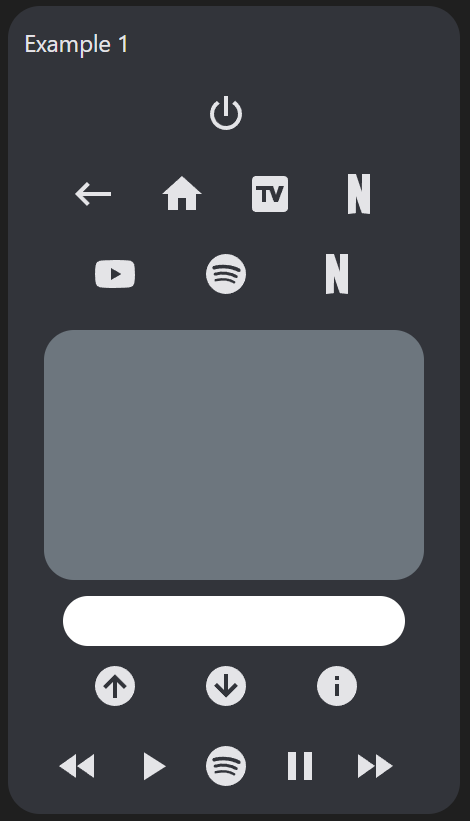
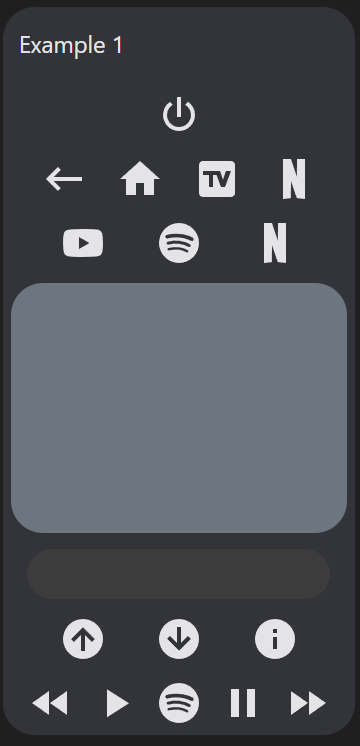
README updates, remade all old screenshots

diff --git a/README.md b/README.md
@@ -82,6 +82,30 @@ Many thanks to the original authors. Getting this to work with Android TV was st
 
 ## Demo
 
+```yaml
+type: custom:android-tv-card
+remote_id: remote.google_chromecast
+media_player_id: media_player.google_chromecast
+adb_id: media_player.google_chromecast_adb
+title: Example
+rows:
+  - - back
+    - power
+    - home
+  - - keyboard
+    - search
+    - volume_slider
+  - - - netflix
+      - null
+      - youtube
+      - null
+      - spotify
+    - navigation_touchpad
+  - - previous
+    - play_pause
+    - next
+```
+
 <img src="assets/screenshot.png" alt="ex" width="300"/>
 
 ## Options
@@ -94,14 +118,14 @@ All fields are technically optional except for `type`, but the card will not fun
 | remote_id              | string   | The `remote` entity id to control, required for default commands.                                                                                                                                                                                            |
 | media_player_id        | string   | The `media_player` entity id to use for the optional volume slider (not required for volume buttons).                                                                                                                                                        |
 | adb_id                 | string   | The adb `media_player` entity id to use to send keyboard events. Requires the [Android Debug Bridge integration](https://www.home-assistant.io/integrations/androidtv/).                                                                                     |
-| title                  | string   | Card title for showing as header.                                                                                                                                                                                                                            |
-| rows                   | string[] | Defines the buttons used in the card. Each row within rows defines a row of buttons (or slider and touchpad).                                                                                                                                                |
-| enable_double_click    | boolean  | Whether a double click on the touchpad should send the key in `double_click_keycode`. Defaults to `false`. Enabling this introduces a 200ms delay to single clicks.                                                                                          |
+| title                  | string   | Title to display in the card header.                                                                                                                                                                                                                         |
+| rows                   | string[] | Defines the buttons used in the card. Each row within rows defines a row of buttons (or slider and touchpad). Sub-arrays within these rows will display as columns, and sub-arrays within those will alternate between rows and columns.                     |
+| enable_double_click    | boolean  | Enable double clicks on the touchpad. Defaults to `false`. Enabling this introduces a 200ms delay to single clicks.                                                                                                                                          |
 | double_click_keycode   | string   | The key for double clicks on the touchpad. Defaults to `back`.                                                                                                                                                                                               |
 | long_click_keycode     | string   | The key for long clicks on the touchpad. Defaults to a long `center` click.                                                                                                                                                                                  |
-| enable_button_feedback | boolean  | Shall clicks on the buttons return a vibration feedback? Defaults to `true`.                                                                                                                                                                                 |
-| enable_slider_feedback | boolean  | Shall the volume slider return a vibration feedback when you slide through it? Defaults to `true`.                                                                                                                                                           |
-| slider_config          | object   | Custom configuration for the volume slider. See [slider-card](https://github.com/AnthonMS/my-cards). Requires `media_player_id`.                                                                                                                             |
+| enable_button_feedback | boolean  | Enable vibration feedback on the buttons and touchpad, defaults to `true`.                                                                                                                                                                                   |
+| enable_slider_feedback | boolean  | Enable vibration feedback on the volume slider, defaults to `true`.                                                                                                                                                                                          |
+| slider_config          | object   | Custom configuration for the volume slider. See [slider-card](https://github.com/AnthonMS/my-cards). Requires `media_player_id`. Not required to use `volume_slider`.                                                                                        |
 | custom_keys            | object   | Custom keys for the remote control. Each item is an object that can optionally have an `icon` (will use original key icon if overwriting an existing one and icon is not provided) and at least one of the following properties: `key`, `source`, `service`. |
 | custom_sources         | object   | Custom sources for the remote control. Same object as above, but letting you split keys and sources.                                                                                                                                                         |
 | touchpad_height        | string   | Change touchpad height to a custom value, must include [units](https://www.w3schools.com/cssref/css_units.php). Defaults to `250px`.                                                                                                                         |
@@ -180,12 +204,12 @@ Then you can easily use these buttons in your card:
 ```yaml
 rows:
   - - browser
-  	- power
-  	- input_tv
+    - power
+    - input_tv
   - - rewind
-  	- play_pause
-  	- fast_forward
-  	- toggle_light
+    - play_pause
+    - fast_forward
+    - toggle_light
 ```
 
 <img src="assets/custom_keys.png" alt="guide" width="300"/>
@@ -331,7 +355,7 @@ remote_id: remote.google_chromecast
 adb_id: media_player.google_chromecast_adb
 rows:
   - - back
-  	- home
+    - home
     - play_pause
   - - keyboard
     - search
@@ -496,6 +520,7 @@ Result:
 In any row, if you add an empty or `null` item, there will be an empty button sized space:
 
 ```yaml
+type: custom:android-tv-card
 rows:
   - - back
     - home
